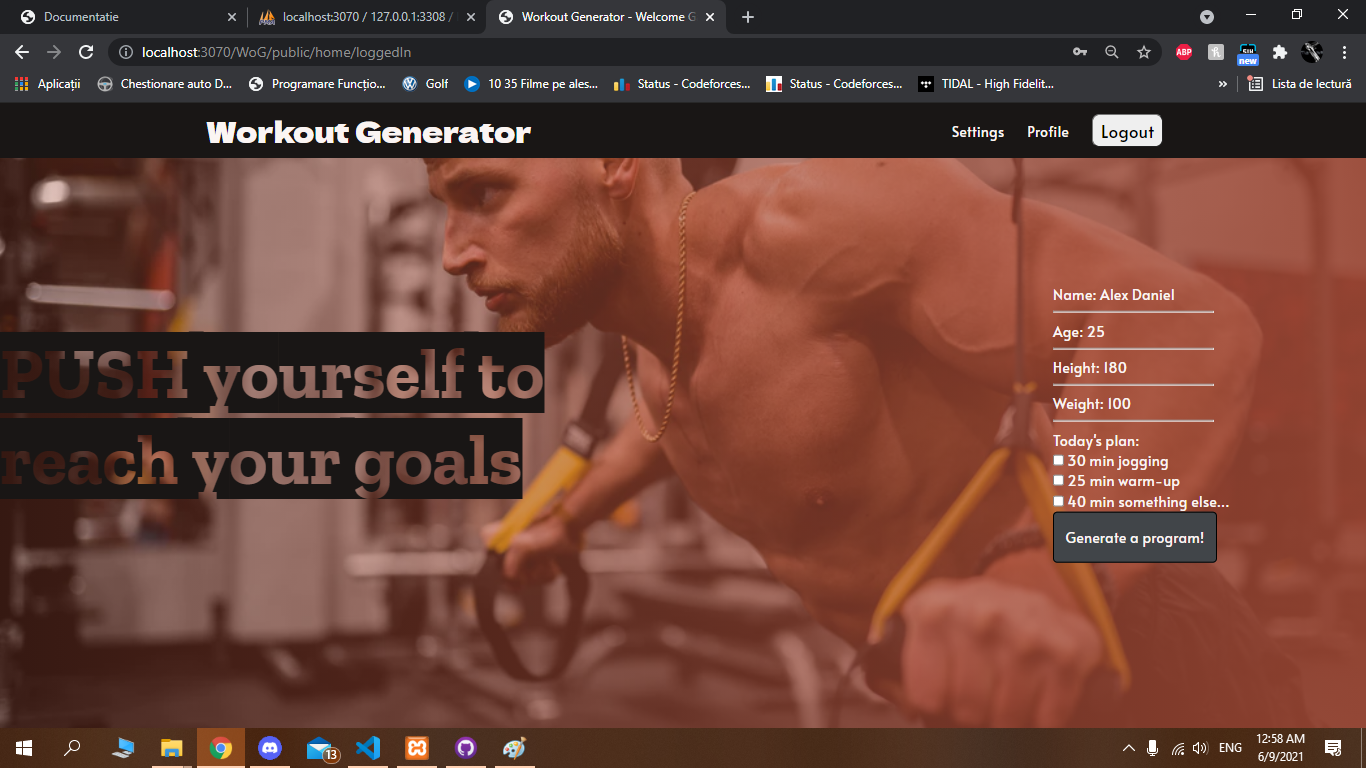
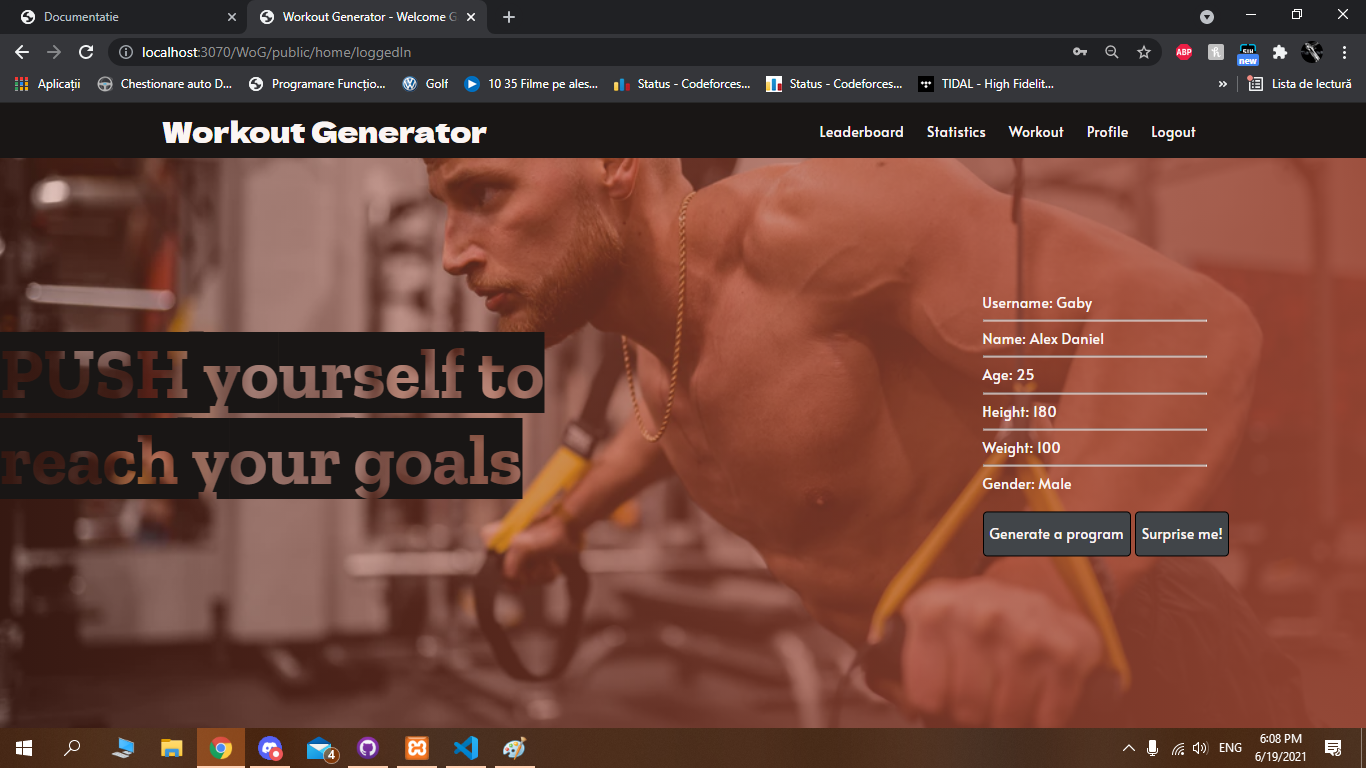
Documentation

diff --git a/documentatie/index.html b/documentatie/index.html
@@ -8,7 +8,7 @@
   <link rel="stylesheet" href="css/scholarly.min.css">
   <script src="js/scholarly.min.js"></script>
 </head>
-
+<!-- DE ADAUGAT ACESTE TAG-URI!!!!!!! project, infoiasi, web.  -->
 <body prefix="schema: http://schema.org">
   <header>
     <div class="banner">
@@ -56,8 +56,7 @@
 
       <p>
         In momentul in care utilizatorul intra pe site, acesta este intampinat de pagina
-        principala ce afiseaza un meniu in partea de sus, un motto specific in partea stanga si
-        in partea dreapta un panou cu topul celor mai activi utilizatori.
+        principala ce afiseaza un meniu in partea de sus, un motto specific in partea stanga.
 
         Meniul prezinta in partea stanga un buton cu logo-ul nostru. prin apasarea lui,
         utilizatorul este adus la pagina principala. In partea dreapta, se afla 2 butoane
@@ -82,6 +81,10 @@
         alte date cu caracter personal(inaltime, greutate, varsta, numele - ce se vor gasi pe pagina principala in
         vecinatatea butonului de generare) in vederea inregistrarii pe site.
       </p>
+      <p>
+        Pentru ca formularul sa fie corect, numele trebuie sa fie unul real si parola trebuie sa contina minim 4
+        caractere, o cifra, o litera mare si o litera mica.
+      </p>
     </section>
     <section id="LoggedIn">
       <h2>
@@ -90,8 +93,14 @@
       <img src="photos/paginaDupaLogare.png" alt="paginaDupaLogare">
       <p>
         Dupa ce utilizatorul s-a logat, acesta este intampinat de o noua fereastra in partea
-        dreapta ce ii permite sa vada ce date sunt in profilul sau actual dar si un buton de
-        "Generare" ce il trimite spre un formular de generare a unui program de antrenament.
+        dreapta ce ii permite sa vada ce date sunt in profilul sau actual dar si doua butoane.
+      </p>
+      <p>
+        Butonul de "Generate" trimite utilizatorul spre un formular unde iti poate crea singur un antrenament
+      </p>
+      <p>
+        Butonul de "Surprise me!" trimite utilizatorul spre un antrenament generat automat, de intensitate medie,
+        calculat in functie de antrenamentele sale din trecut.
       </p>
     </section>
     <section id="Error">
@@ -113,50 +122,108 @@
       <img src="photos/paginaGenerare.png" alt="paginaGenerare">
       <p>
         La pagina de generare, utilizatorul este intampiat de un formular unde trebuie inroduse niste preferinte 
-        in vederea generarii unui program de antrenament. Dupa ce este realizat acest pas, algoritmul genereaza un antrenament in mod determinist.
+        in vederea generarii unui program de antrenament. Dupa ce este realizat acest pas, algoritmul genereaza un antrenament in mod nedeterminist.
       </p>
     </section>
 
-    <section id="Profie">
+    <section id="Workout">
       <h2>
-        Pagina Profil
+        Pagina Workout
       </h2>
-      <img src="photos/paginaProfile.png" alt="paginaProfile">
+      <img src="photos/paginaWorkout.png" alt="paginaWorkout">
       <p>
-        Pagina de profil ofera utilizatorului un tabel unde poate sa isi acceseze antrenamentele ce nu sunt terminate si sa 
-        vada ce antrenamente a avut in trecut si le-a terminat. de asemenea, cand un antrenament este terminat, utilizatorul 
+        Pagina de workout ofera utilizatorului un tabel unde poate sa isi acceseze exercitiile ce nu sunt terminate si sa 
+        vada antrenamentul curent. De asemenea, cand un antrenament este terminat, utilizatorul 
         primeste un punctaj ce se adauga la scor pentru clasament.  
       </p>
     </section>
 
-    <section id="Settings">
+    <section id="Profile">
       <h2>
-        Pagina Setari
+        Pagina Profile
       </h2>
       <img src="photos/paginaSettings.png" alt="paginaSettings">
       <p>
-        Pagina de setari prezinta utilizatorului un formular unde ii sunt incarcate datele trimise in momentul inregistrarii.
+        Pagina de profil prezinta utilizatorului un formular unde ii sunt incarcate datele trimise in momentul inregistrarii.
          Acest formular ofera posibiltatea de a modifica acele date intr-un mod simplu si rapid.
       </p>
     </section>
 
-  </section>
-  <!-- <section id="challange">
-    <h2 id="Provocare">
-      Provocari depasite
-    </h2>
+    <section id="Details">
+      <h2>
+        Pagina Detalii
+      </h2>
+      <img src="photos/paginaDetalii.png" alt="paginaDetalii">
+      <p>
+        Daca utilizatorul se afla pe pagina de workout, si doreste sa afle mai multe detalii despre un anumit antrenament,
+        acesta poate da click pe numele acelui antrenament si este dus pe pagina unde sunt prezentate detalii despre acel
+        antrenament, cat si un videoclip.
+      </p>
+    </section>
 
-  </section> -->
+    <section id="Statistics">
+      <h2>
+        Pagina Statistica
+      </h2>
+      <img src="photos/paginaStatistica.png" alt="paginaStatistica">
+      <p>
+        In meniul din partea de sus a paginii, utilizatorul gaseste putonul "Statistics" ce il trimite pe pagina de statistica 
+        unde gaseste grafice si valori reprezentand informatiile despre activitatea sa pe site.
+      </p>
+      <p>
+        Primul grafic arata numarul de puncte adunate pe luna.
+      </p>
+      <p>
+        Al doilea grafic arata ce mase musculare ai antrenat pana in acest moment si de cate ori.
+      </p>
+      <p>
+        Al treilea grafic arata ce tipuri de exercitii ai avut pana acuma si numarul acestora.
+      </p>
+      <p>
+        Graficul numarul 4 arata numarul de exercitii realizate in medie in fiecare zi a saptamanii.
+      </p>
+      <p>
+        Ultimul grafic arata cate antrenamente de o anumita intesitate ai facut pana acuma.
+      </p>
+      <p>
+        Cele 3 randuri de sub grafice arata: cea mai lunga serie de zile consecutive in care ai avut activitate,
+        cate antrenamente ai in medie pe saptamana, si cate antrenamente ai in medie pe luna.
+      </p>
+    </section>
+
+    <section id="Leaderboard">
+      <h2>
+        Pagina Detalii
+      </h2>
+      <img src="photos/paginaLeaderboard.png" alt="paginaLeaderboard">
+      <p>
+        In meniul din partea de sus a paginii, utilizatorul gaseste putonul "Leaderboard" ce il trimite pe pagina de leaderboard 
+        unde gaseste clasamentul cu utilizatorii de pe site, si progresul lor. Aici utilizatorul curent este afisat cu culoarea galbena.
+      </p>
+      <p>
+        Aici utilizatorul poate accesa si descarca clasamentul in format JSON si PDF, si il poate avea tip RSS.
+      </p>
+    </section>
+
+  </section>
   <section id="external">
     <h2 id="resurse">
       Biblioteci Folosite
     </h2>
-    <section id="nope">
+    <section id="FPDF">
       <h2>
-        Nu am folosit inca
+        FPDF
       </h2>
       <p>
-        Pana in momentul de fata nu am folosit biblioteci.
+        Generare fisiere PDF pentru pagina de leaderboard.
+      </p>
+    </section>
+    <section id="Chart.JS">
+      <h2>
+        Chart.JS
+      </h2>
+      <p>
+        Generare grafice pentru pagina de statistica.
       </p>
     </section>
   </section>
